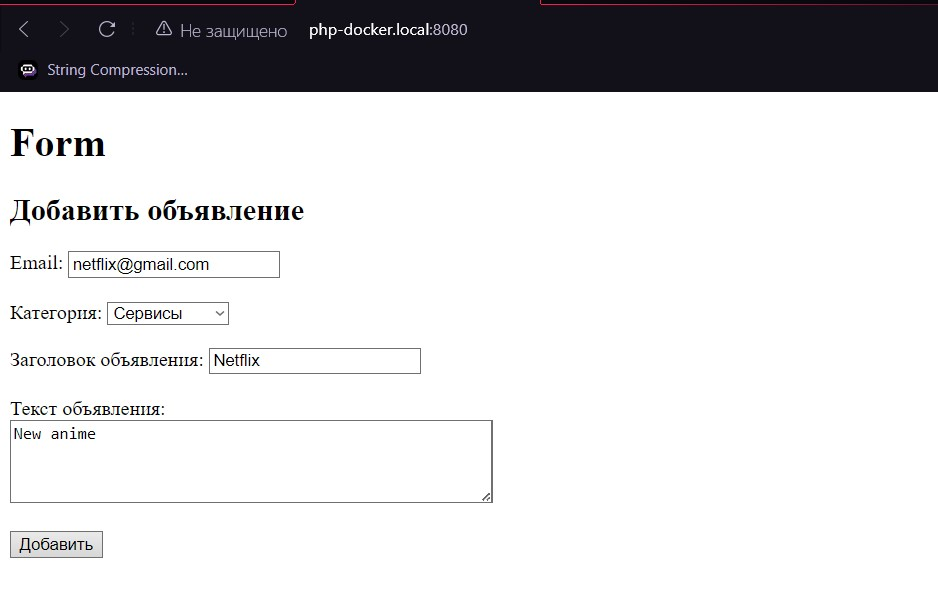
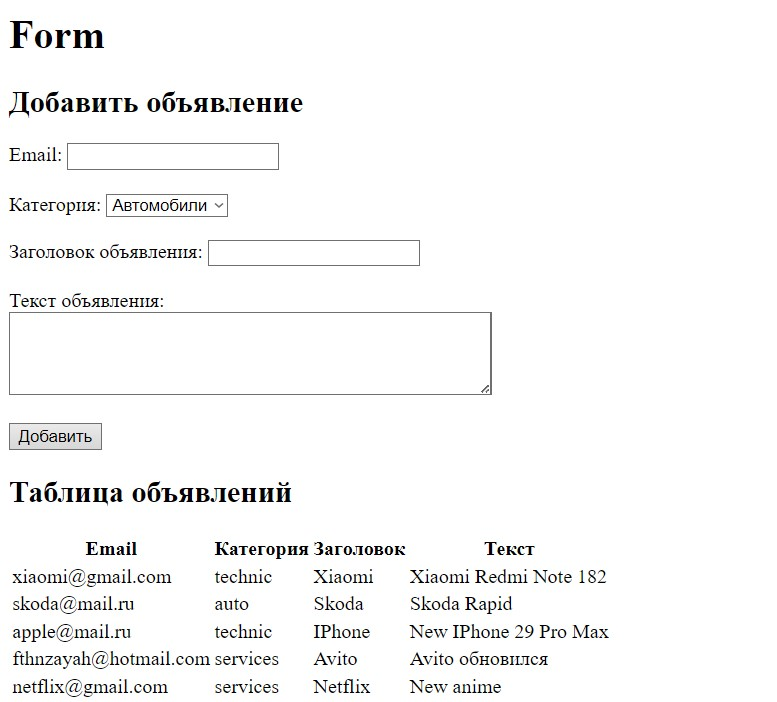
Added a table on the Form page

diff --git a/Lab_4/code/index.php b/Lab_4/code/index.php
@@ -1,3 +1,21 @@
+<?php
+require_once 'vendor/autoload.php';
+
+// Подключение к Google Sheets API
+$client = new Google_Client();
+$client->setAuthConfig(__DIR__.'/credentials.json');
+$client->addScope(Google_Service_Sheets::SPREADSHEETS);
+
+$service = new Google_Service_Sheets($client);
+
+$spreadsheetId = '1MjlEf8eeuiuKCddRqGOdW0Ec8Fo8FJLRrN5_3zmwD1k';
+
+// Получение данных из таблицы
+$response = $service->spreadsheets_values->get($spreadsheetId, 'Лист1');
+$values = $response->getValues();
+
+?>
+
 <!doctype html>
 <html lang="en">
 <head>
@@ -30,5 +48,32 @@
 
     <input type="submit" value="Добавить">
 </form>
+
+<h2>Таблица объявлений</h2>
+<table>
+    <thead>
+    <tr>
+        <th>Email</th>
+        <th>Категория</th>
+        <th>Заголовок</th>
+        <th>Текст</th>
+    </tr>
+    </thead>
+    <tbody>
+    <?php
+    if (!empty($values)) {
+        foreach ($values as $row) {
+            echo "<tr>";
+            echo "<td>" . $row[0] . "</td>";
+            echo "<td>" . $row[1] . "</td>";
+            echo "<td>" . $row[2] . "</td>";
+            echo "<td>" . $row[3] . "</td>";
+            echo "</tr>";
+        }
+    }
+    ?>
+    </tbody>
+</table>
+
 </body>
 </html>
